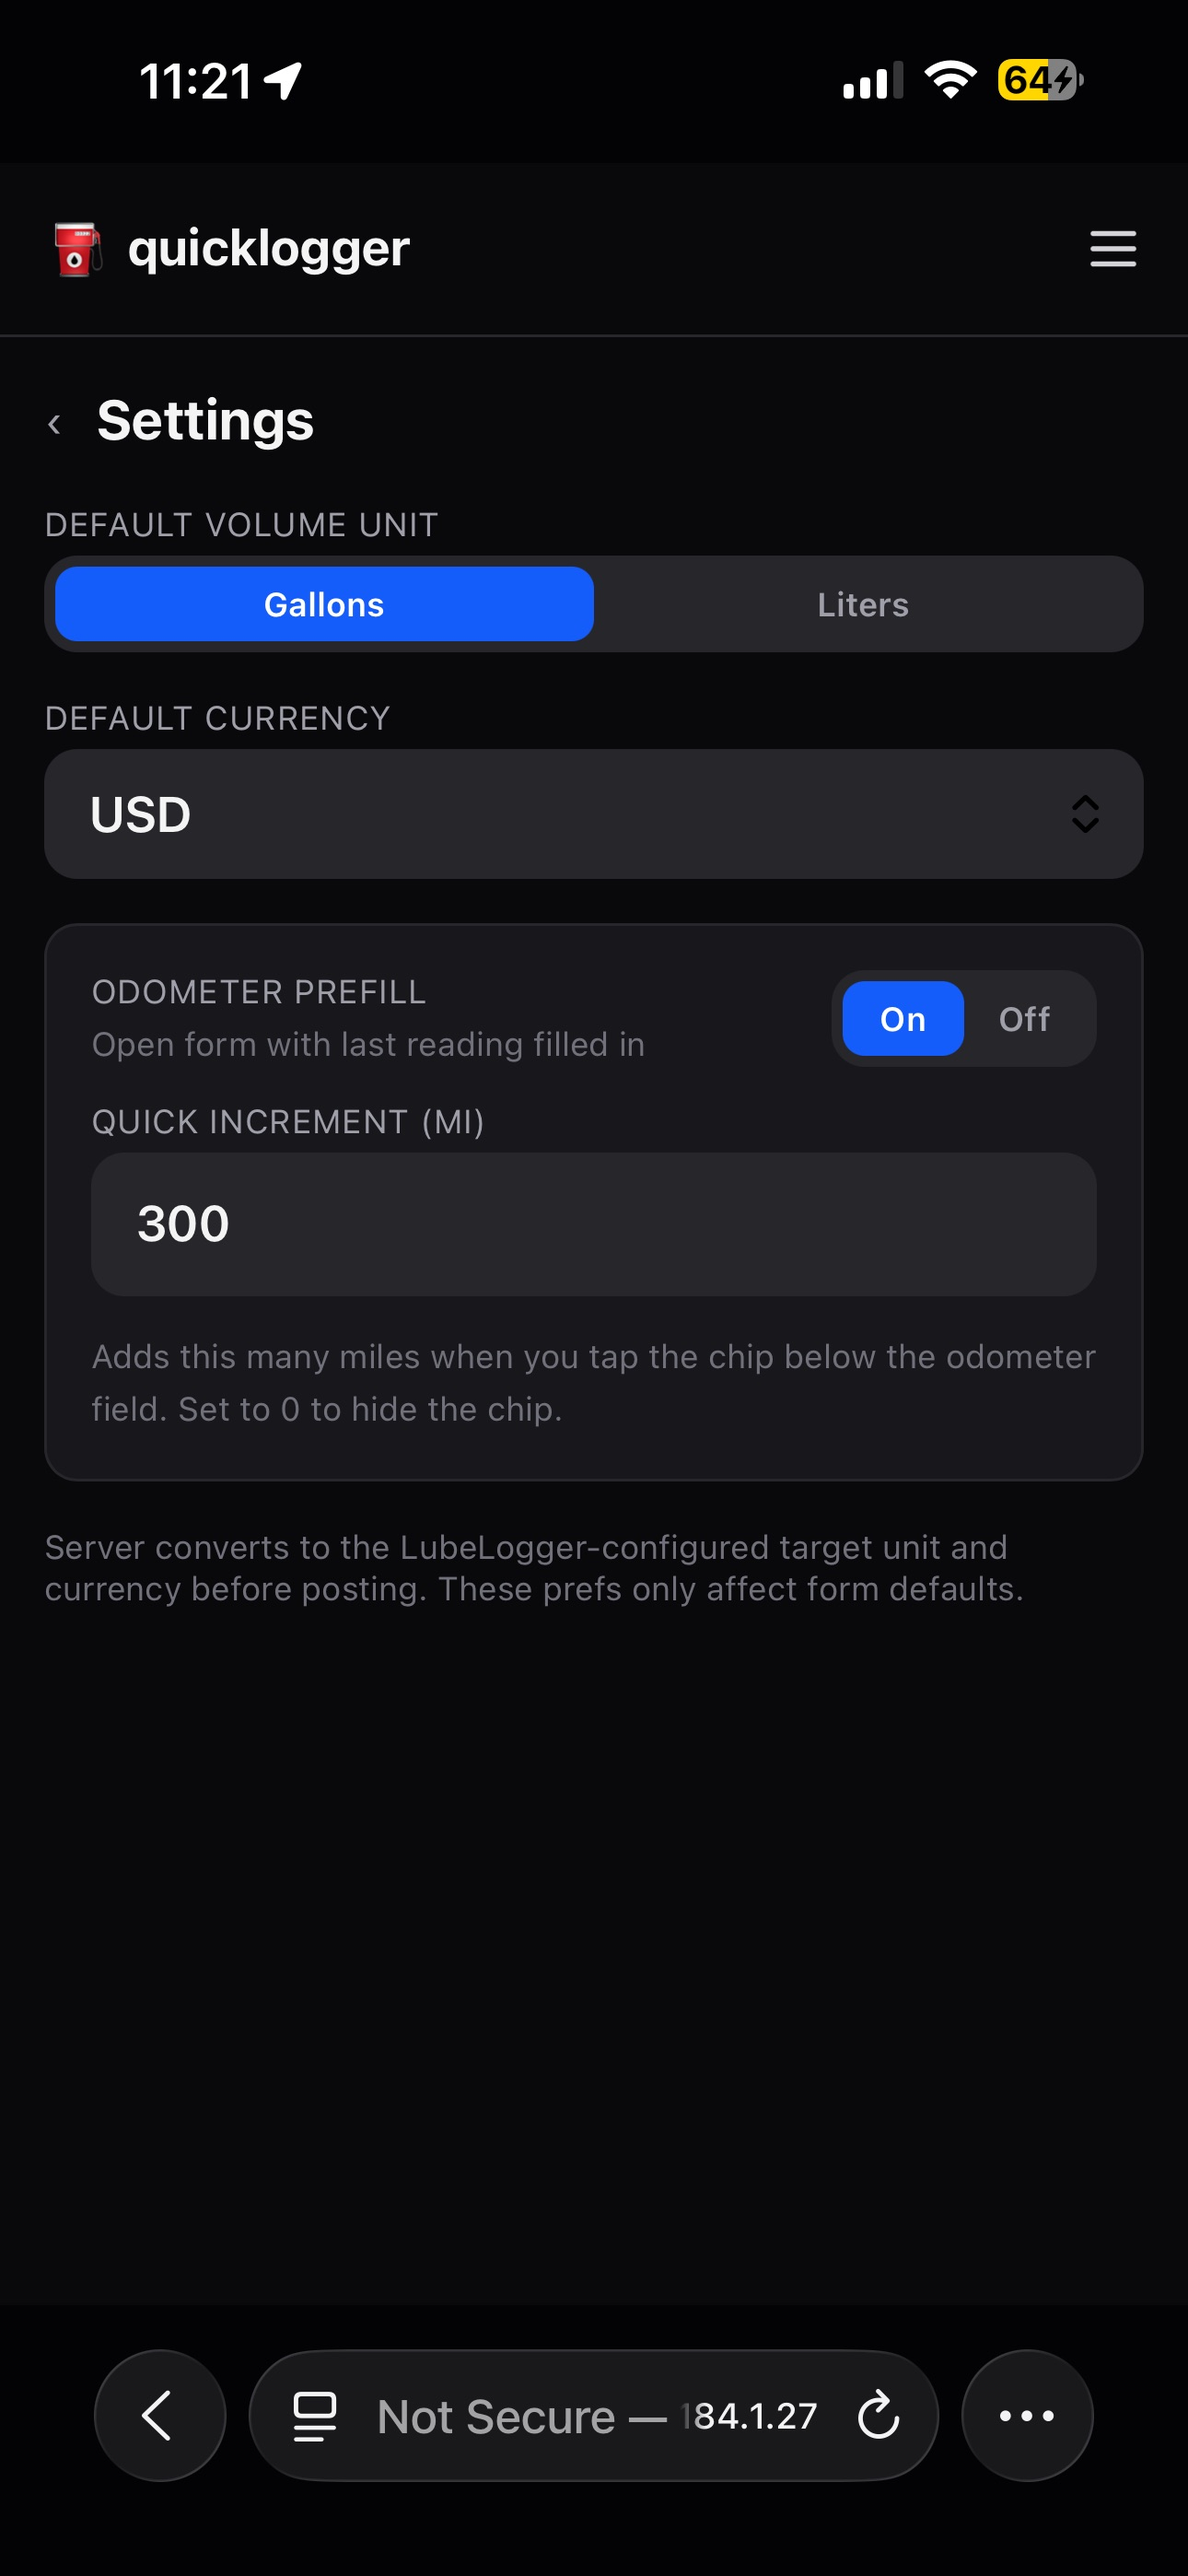
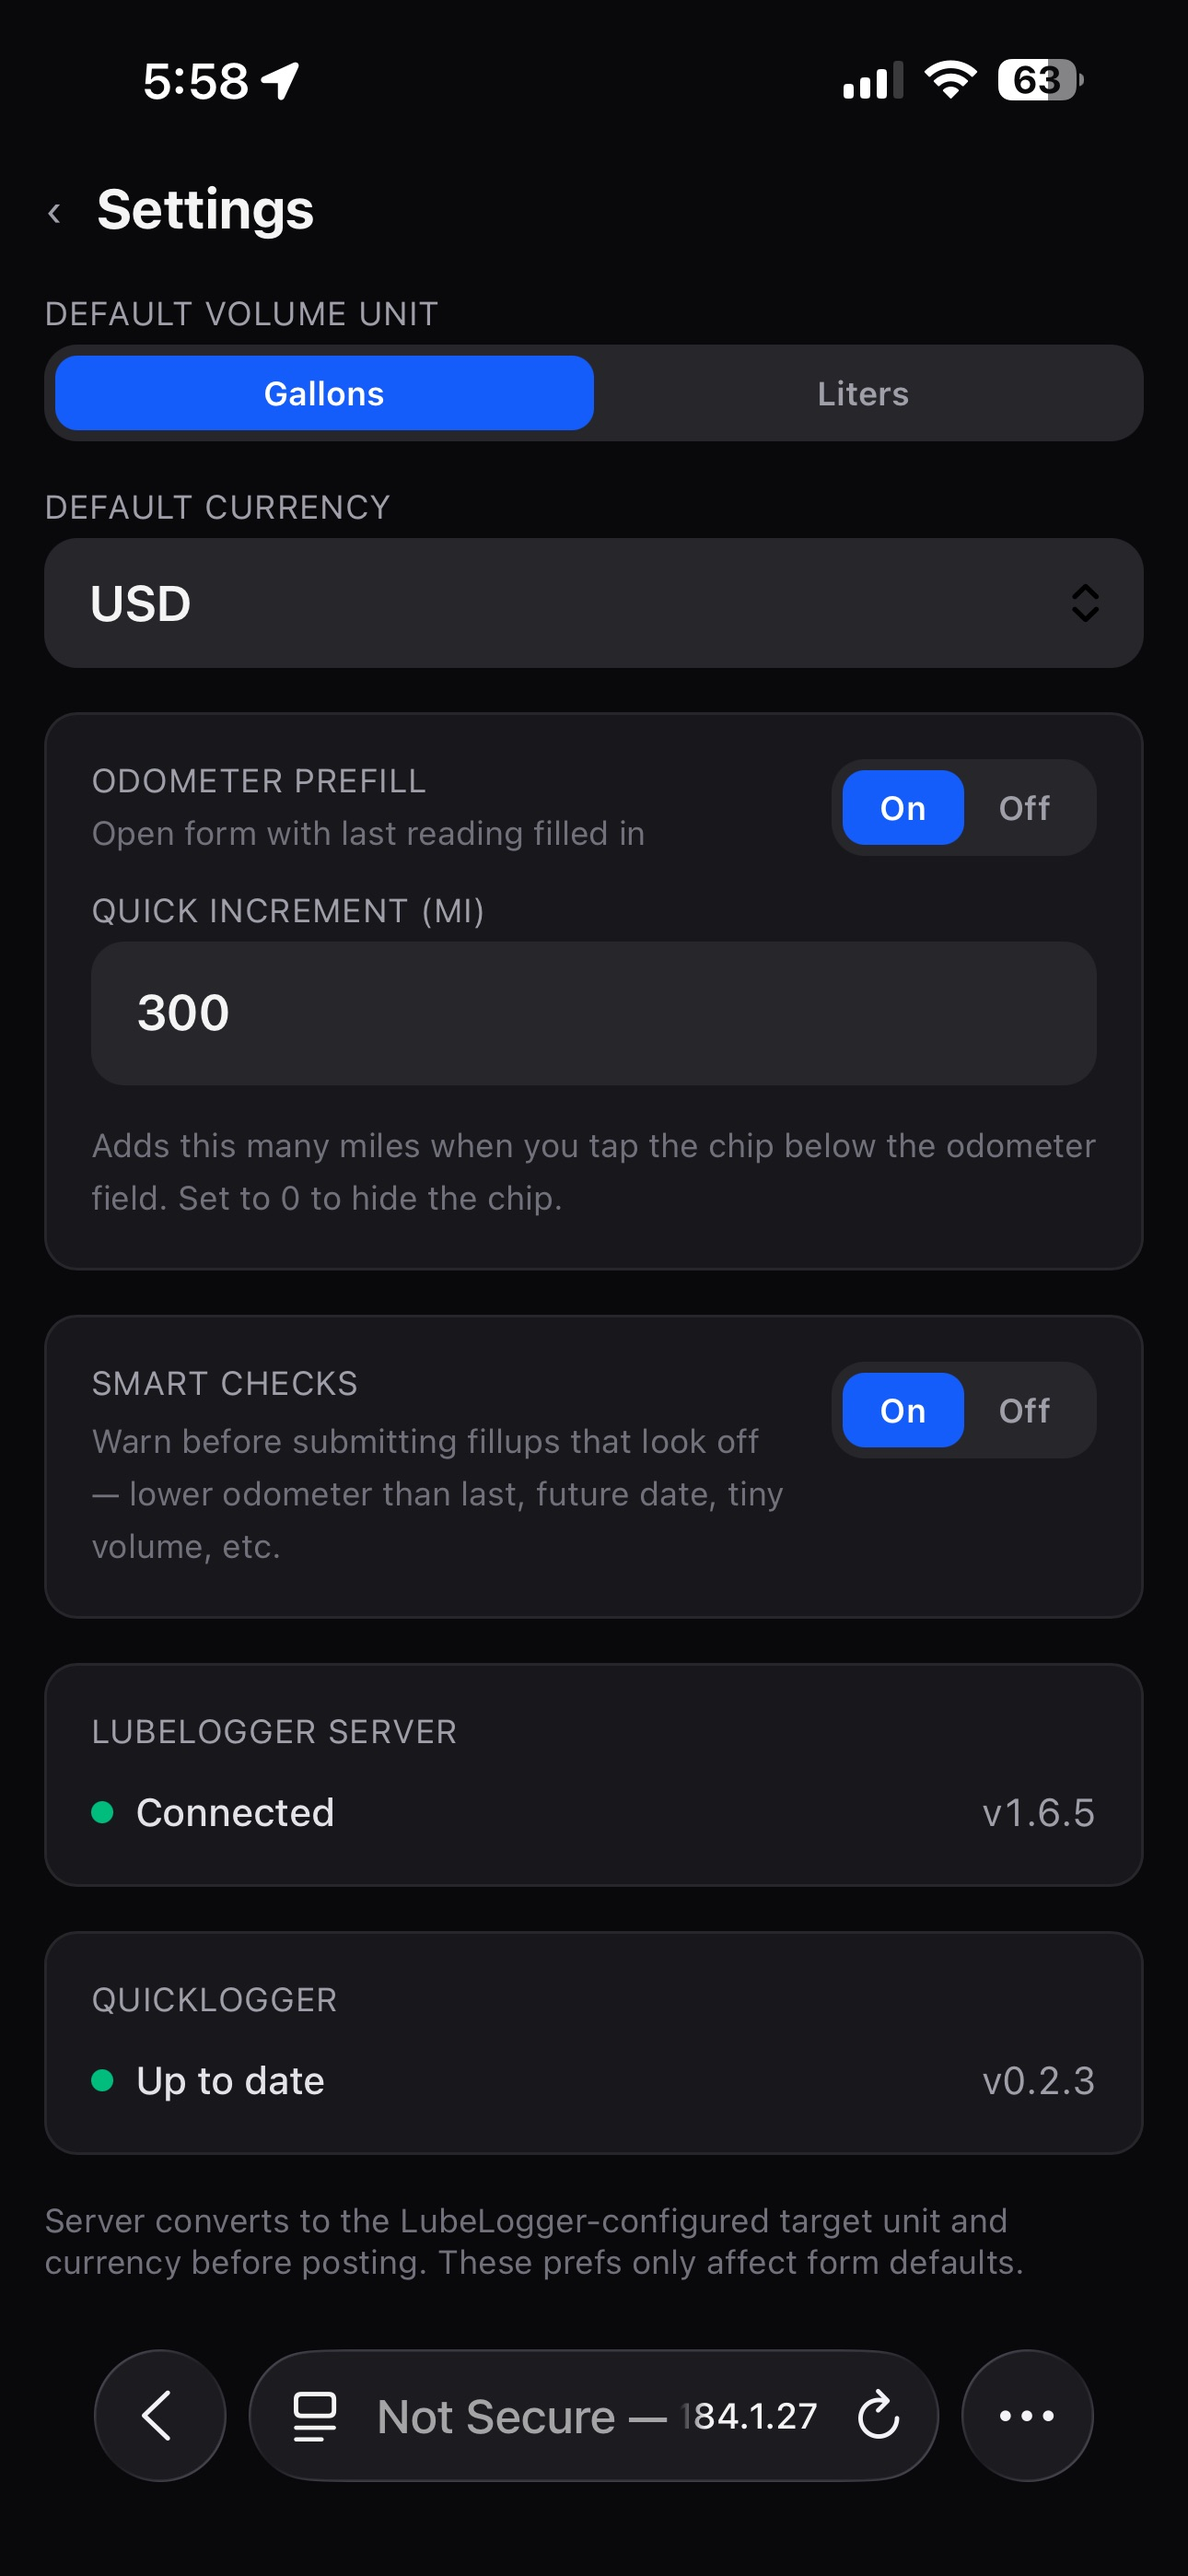
release: 0.2.3 — vehicle photos, locale-aware rendering, server-info & self-update

diff --git a/README.md b/README.md
@@ -2,7 +2,7 @@
 
 Mobile-first PWA for logging fuel fill-ups to a self-hosted [LubeLogger](https://lubelogger.com) instance.
 
-> **Status:** v0.2.2 — stable. Single-user homelab tool, daily-driven. Public repo so anyone can fork and self-host.
+> **Status:** v0.2.3 — stable. Single-user homelab tool, daily-driven. Public repo so anyone can fork and self-host.
 
 ## Built with Claude Code
 

diff --git a/CHANGELOG.md b/CHANGELOG.md
@@ -2,7 +2,7 @@
 
 All notable changes to this project are documented here. Format roughly follows [Keep a Changelog](https://keepachangelog.com/en/1.1.0/); the project follows [SemVer](https://semver.org/) (pre-1.0 minor bumps may include breaking changes — read the entry).
 
-## [0.2.3] — Unreleased
+## [0.2.3] — 2026-05-28
 
 ### Added
 
